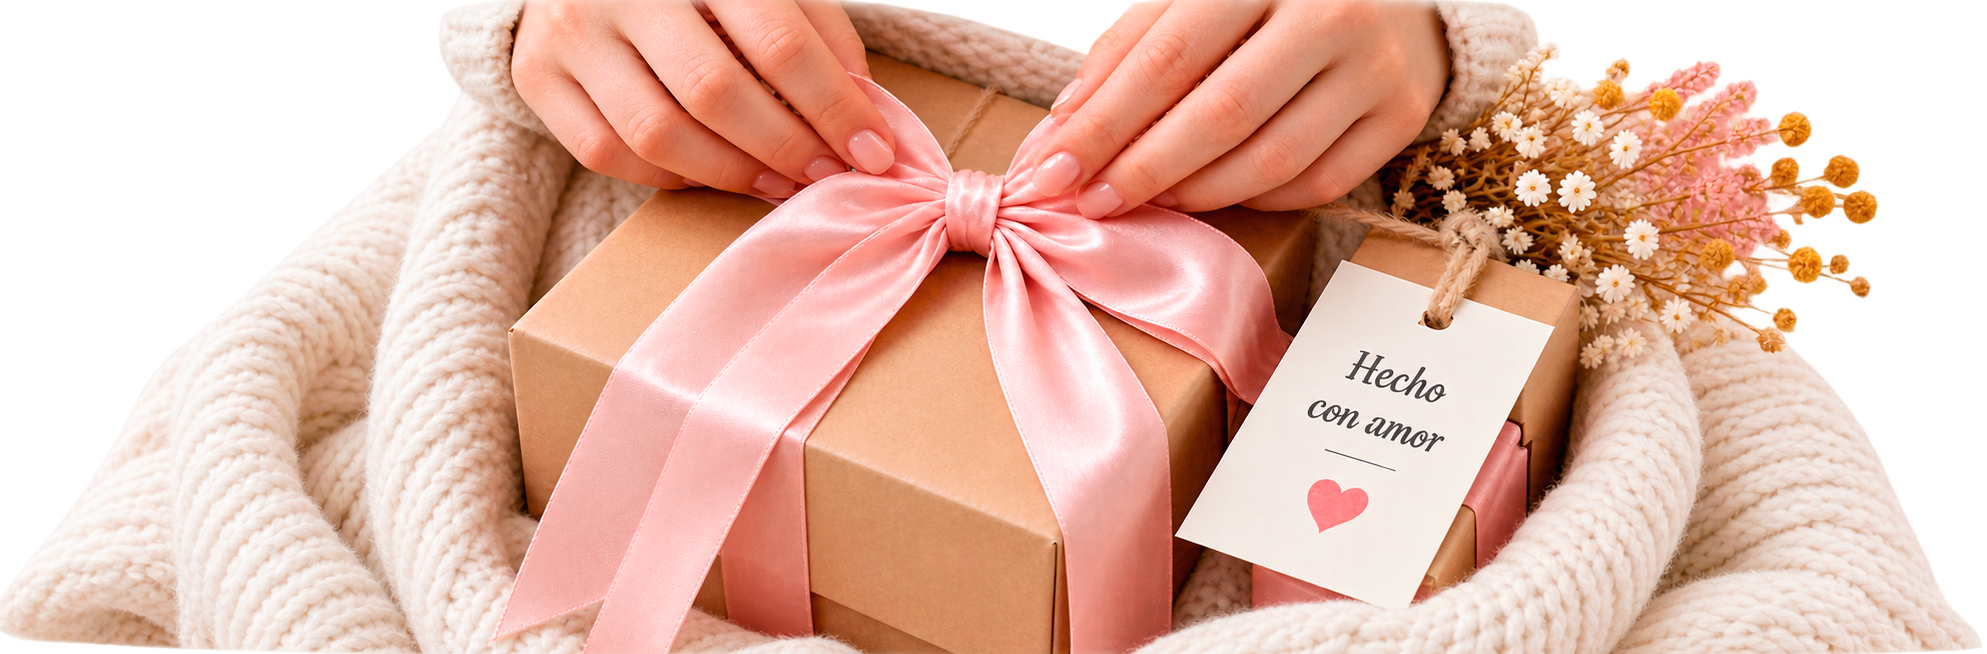
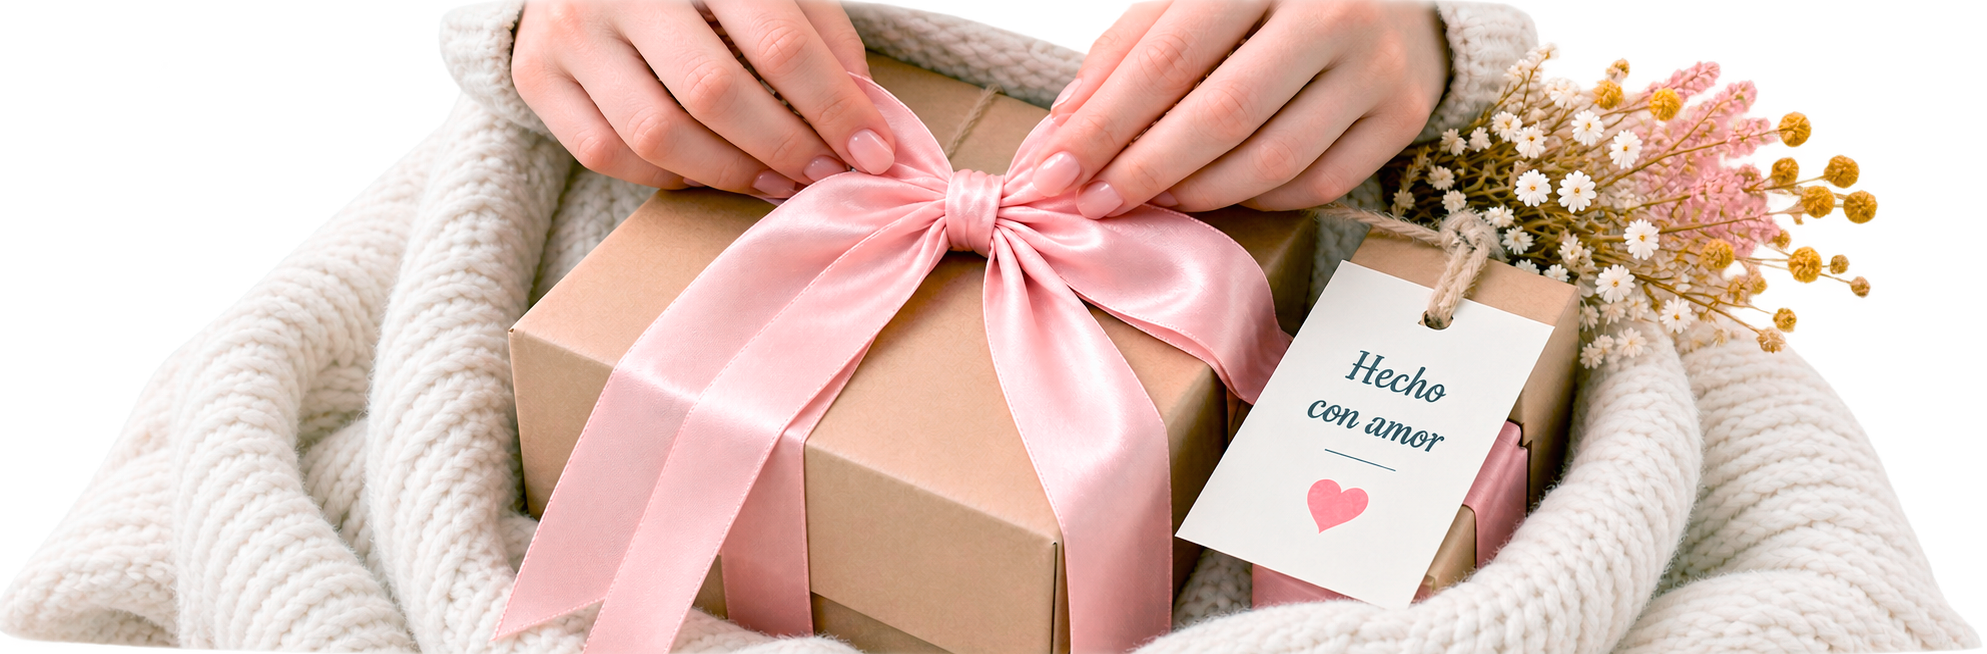
feat: add hero images for categories, gifts, occasions, and products; implement full-bleed variant in catalog components

diff --git a/src/components/catalog/catalog-hero.css b/src/components/catalog/catalog-hero.css
@@ -108,6 +108,34 @@
   object-fit: cover;
 }
 
+.catalog-hero--full-bleed {
+  min-block-size: clamp(28rem, 39vw, 36rem);
+  background: var(--color-surface-calm);
+}
+
+.catalog-hero--full-bleed .catalog-hero__copy {
+  inline-size: min(54%, 38rem);
+}
+
+.catalog-hero--full-bleed > .responsive-media {
+  inset: 0;
+  inline-size: 100%;
+}
+
+.catalog-hero--full-bleed > .responsive-media::after {
+  background: linear-gradient(
+    90deg,
+    color-mix(in srgb, var(--color-surface) 94%, transparent) 0%,
+    color-mix(in srgb, var(--color-surface) 84%, transparent) 25%,
+    color-mix(in srgb, var(--color-surface) 28%, transparent) 47%,
+    transparent 72%
+  );
+}
+
+.catalog-hero--full-bleed > .responsive-media img {
+  object-position: center;
+}
+
 .catalog-hero__sparkles {
   position: absolute;
   z-index: var(--z-raised);
@@ -154,6 +182,33 @@
       color-mix(in srgb, var(--color-header-mobile) 72%, transparent) 18%,
       transparent 52%
     );
+  }
+
+  .catalog-hero--full-bleed {
+    min-block-size: 38rem;
+  }
+
+  .catalog-hero--full-bleed .catalog-hero__copy {
+    inline-size: 100%;
+  }
+
+  .catalog-hero--full-bleed > .responsive-media {
+    inset-block: auto 0;
+    inline-size: 100%;
+    block-size: 48%;
+  }
+
+  .catalog-hero--full-bleed > .responsive-media::after {
+    background: linear-gradient(
+      180deg,
+      var(--color-header-mobile) 0%,
+      color-mix(in srgb, var(--color-header-mobile) 72%, transparent) 22%,
+      transparent 62%
+    );
+  }
+
+  .catalog-hero--full-bleed > .responsive-media img {
+    object-position: 68% center;
   }
 
   .catalog-hero__sparkles {

diff --git a/src/content/category-index.ts b/src/content/category-index.ts
@@ -4,7 +4,8 @@ export const categoryIndexContent = Object.freeze({
     title: 'Encuentra el regalo perfecto',
     claim: 'Hecho a mano, con amor',
     copy: 'Regalos únicos y personalizados para cada historia, cada persona y cada ocasión.',
-    imageAlt: 'Tarta de pañales artesanal decorada con flores en tonos suaves.',
+    imageAlt:
+      'Tarta de pañales personalizada en tonos rosas con lazo, regalo y bloques de madera.',
   }),
   listing: Object.freeze({
     title: 'Nuestras categorías',

diff --git a/src/content/catalog-pages.ts b/src/content/catalog-pages.ts
@@ -8,7 +8,7 @@ export const catalogPageContent = Object.freeze({
     intro:
       'Ideas hechas con mimo para celebrar a las personas especiales y convertir cada regalo en un recuerdo único.',
     imageAlt:
-      'Regalo personalizado entre flores rosas y pequeños detalles artesanales.',
+      'Colección de regalos personalizados, tartas de pañales y papelería decorada en tonos rosas.',
   }),
   taxonomy: Object.freeze({
     category: Object.freeze({

diff --git a/src/components/home/custom-idea.css b/src/components/home/custom-idea.css
@@ -156,7 +156,7 @@
 .custom-idea__moon {
   position: absolute;
   z-index: 4;
-  inset-block-start: 50%;
+  inset-block-start: 69%;
   inset-block-end: auto;
   inset-inline-end: clamp(0.75rem, 1.5%, 1.5rem);
   inline-size: var(--moon-width);
